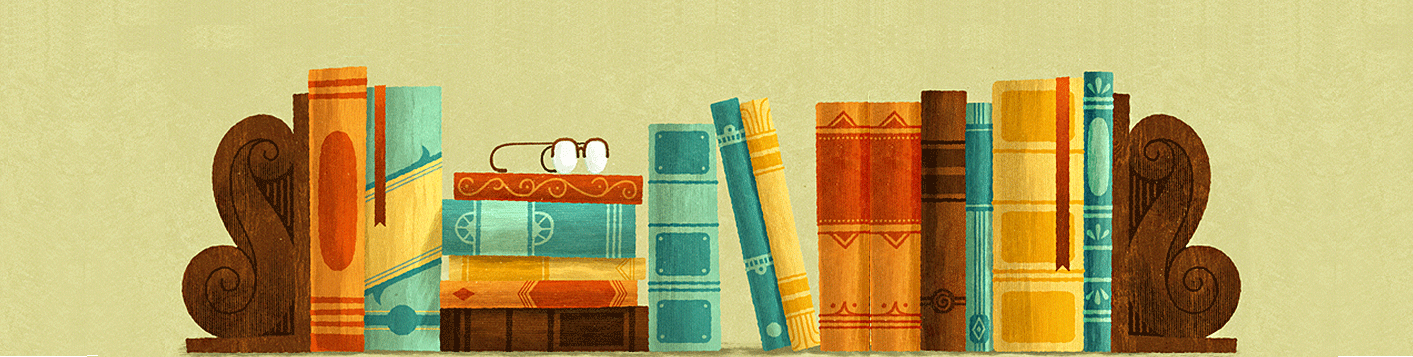
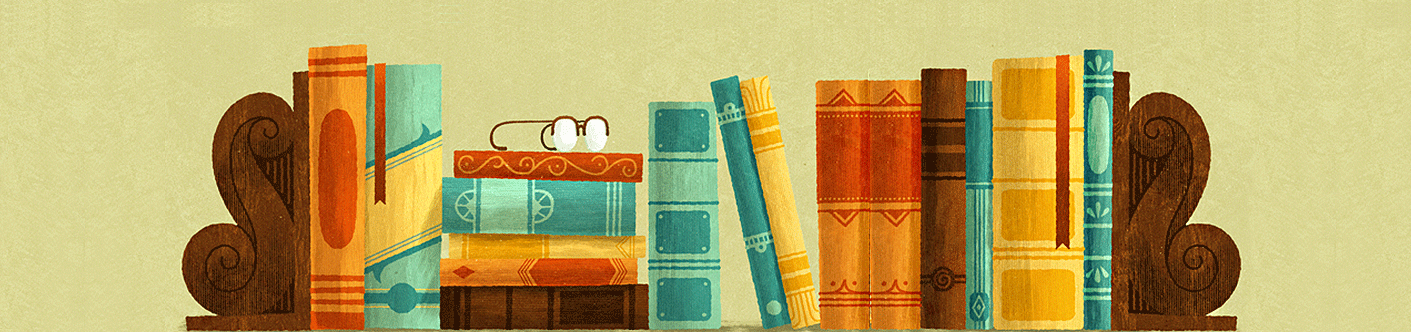
fix menu header img

Changed region(s): [[0.1247, 0.1205, 0.9043, 1.0], [0.9355, 0.994, 1.0, 1.0], [0.0, 0.994, 0.0936, 1.0]]

diff --git a/src/main/webapp/resources/css/header.css b/src/main/webapp/resources/css/header.css
@@ -5,18 +5,18 @@ body {
     font-size: 17px;
 }
 
-/* Заставка */
-.splash {
-    /* Отступ для содержимого, помещенного в splash */
-    /*padding: 7em 8em;*/
-    background-image: url(../img/header.png);
-    background-size: contain;
-    /* Запрещаем фоновому изображению прокручиваться, т.е. делаем его неподвижным */
-    background-attachment: fixed;
-    color: #fff;
-    text-align: center;
-    height: 300px;
-}
+/*!* Заставка *!*/
+/*.splash {*/
+    /*!* Отступ для содержимого, помещенного в splash *!*/
+    /*!*padding: 7em 8em;*!*/
+    /*background-image: url(../img/header.png);*/
+    /*background-size: contain;*/
+    /*!* Запрещаем фоновому изображению прокручиваться, т.е. делаем его неподвижным *!*/
+    /*background-attachment: fixed;*/
+    /*color: #fff;*/
+    /*text-align: center;*/
+    /*height: 300px;*/
+/*}*/
 
 /* цвет фона и рамки навигационного меню */
 .navbar-default {
